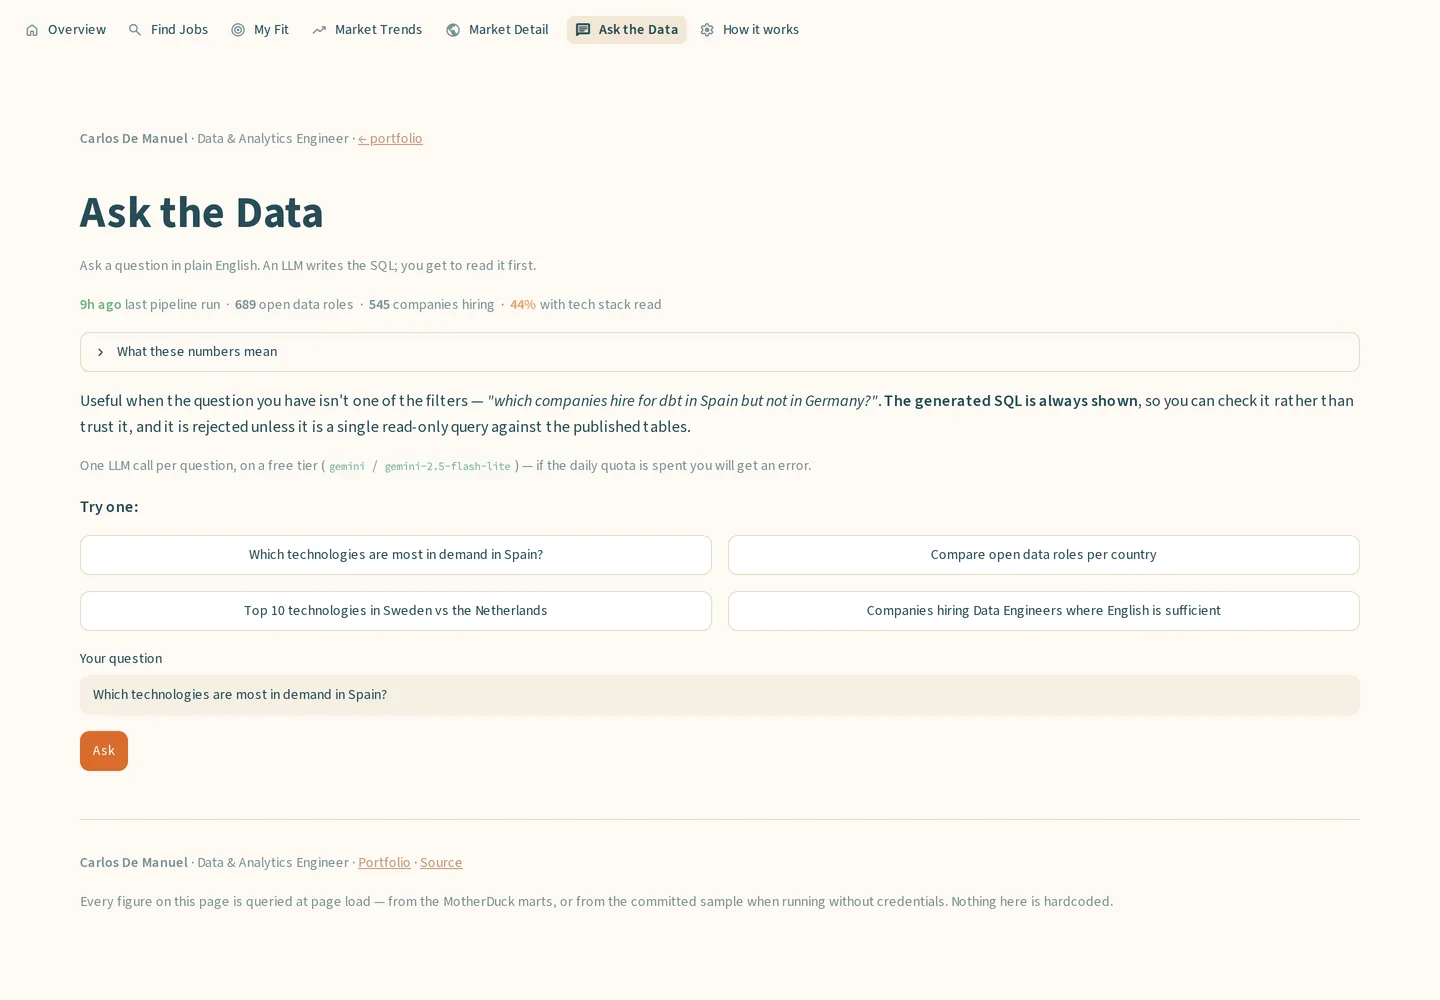
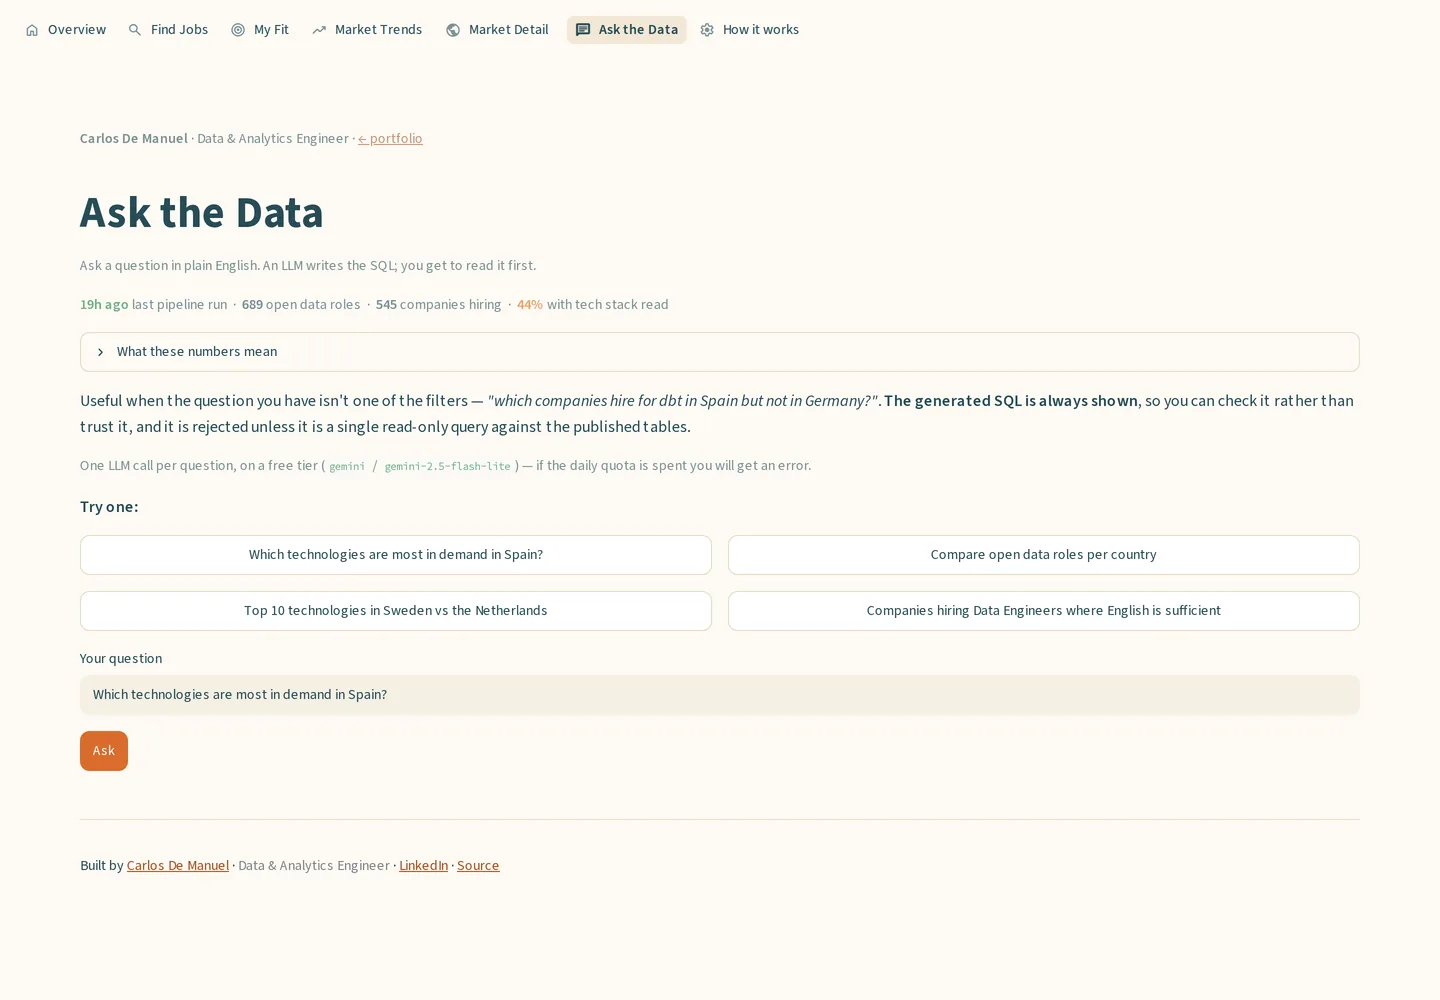
fix(jmi): Ask the Data screenshot shows the app's new footer
Also declares the real 1440x1000 size for it and My Fit; both still carried
the height of an older capture.

Changed region(s): [[0.0625, 0.837, 0.375, 0.93], [0.0625, 0.279, 0.4688, 0.31], [0.4062, 0.899, 0.75, 0.93]]

diff --git a/projects/job-market-intelligence/index.html b/projects/job-market-intelligence/index.html
@@ -141,7 +141,7 @@
                         <p>So the pipeline reads for it. Five free APIs land in an append-only log every morning, an LLM reads each posting for its stack, seniority and working language, and a dbt medallion turns that into one canonical row per posting — <strong>689 open data roles</strong> across five markets on 25 Sep 2026, around 50 of them new each day.</p>
                         <p>The free tier allows 20 requests a day, so for most of the project's life the model had read only part of the corpus. One rule carried it: <strong>a posting nobody has read says “not yet classified”, never “no match.”</strong> The backlog is clear now, and the rule matters more — only 47% of roles yield a stack, and the reason is no longer the quota.</p>
                         <figure class="shot">
-                            <img src="../../images/jmi/my-fit.webp" alt="The My Fit page: skills detected from a pasted CV shown as removable chips, then every open role ranked by the share of its stack the CV already covers, with the matched technologies listed per row." width="1440" height="854" loading="lazy" decoding="async">
+                            <img src="../../images/jmi/my-fit.webp" alt="The My Fit page: skills detected from a pasted CV shown as removable chips, then every open role ranked by the share of its stack the CV already covers, with the matched technologies listed per row." width="1440" height="1000" loading="lazy" decoding="async">
                             <figcaption><strong>My Fit</strong> — the answer the whole pipeline exists to produce: the 302 open roles with a parsed stack, ranked by how much of it you already cover. Pure set arithmetic, no API call. The CV never leaves the browser session.</figcaption>
                         </figure>
                     </div>
@@ -240,7 +240,7 @@
                             <li><strong>The SQL agent's guarantee sits on the connection.</strong> It sees only the marts schema, one SELECT, forced <code>LIMIT 500</code>. Three of those four guardrails are checks in this repo's code; the fourth is a <strong>read-only connection MotherDuck enforces server-side</strong>, which is where it belongs, since the free plan issues read/write tokens only.</li>
                         </ul>
                         <figure class="shot">
-                            <img src="../../images/jmi/ask-the-data.webp" alt="The Ask the Data page: a plain-English question box with four suggested questions, and a note that the generated SQL is always shown and is rejected unless it is a single read-only query against the published tables." width="1440" height="922" loading="lazy" decoding="async">
+                            <img src="../../images/jmi/ask-the-data.webp" alt="The Ask the Data page: a plain-English question box with four suggested questions, and a note that the generated SQL is always shown and is rejected unless it is a single read-only query against the published tables." width="1440" height="1000" loading="lazy" decoding="async">
                             <figcaption><strong>Ask the Data</strong> — natural language in, read-only SQL out, shown before it runs so you can check it rather than trust it.</figcaption>
                         </figure>
                     </div>
